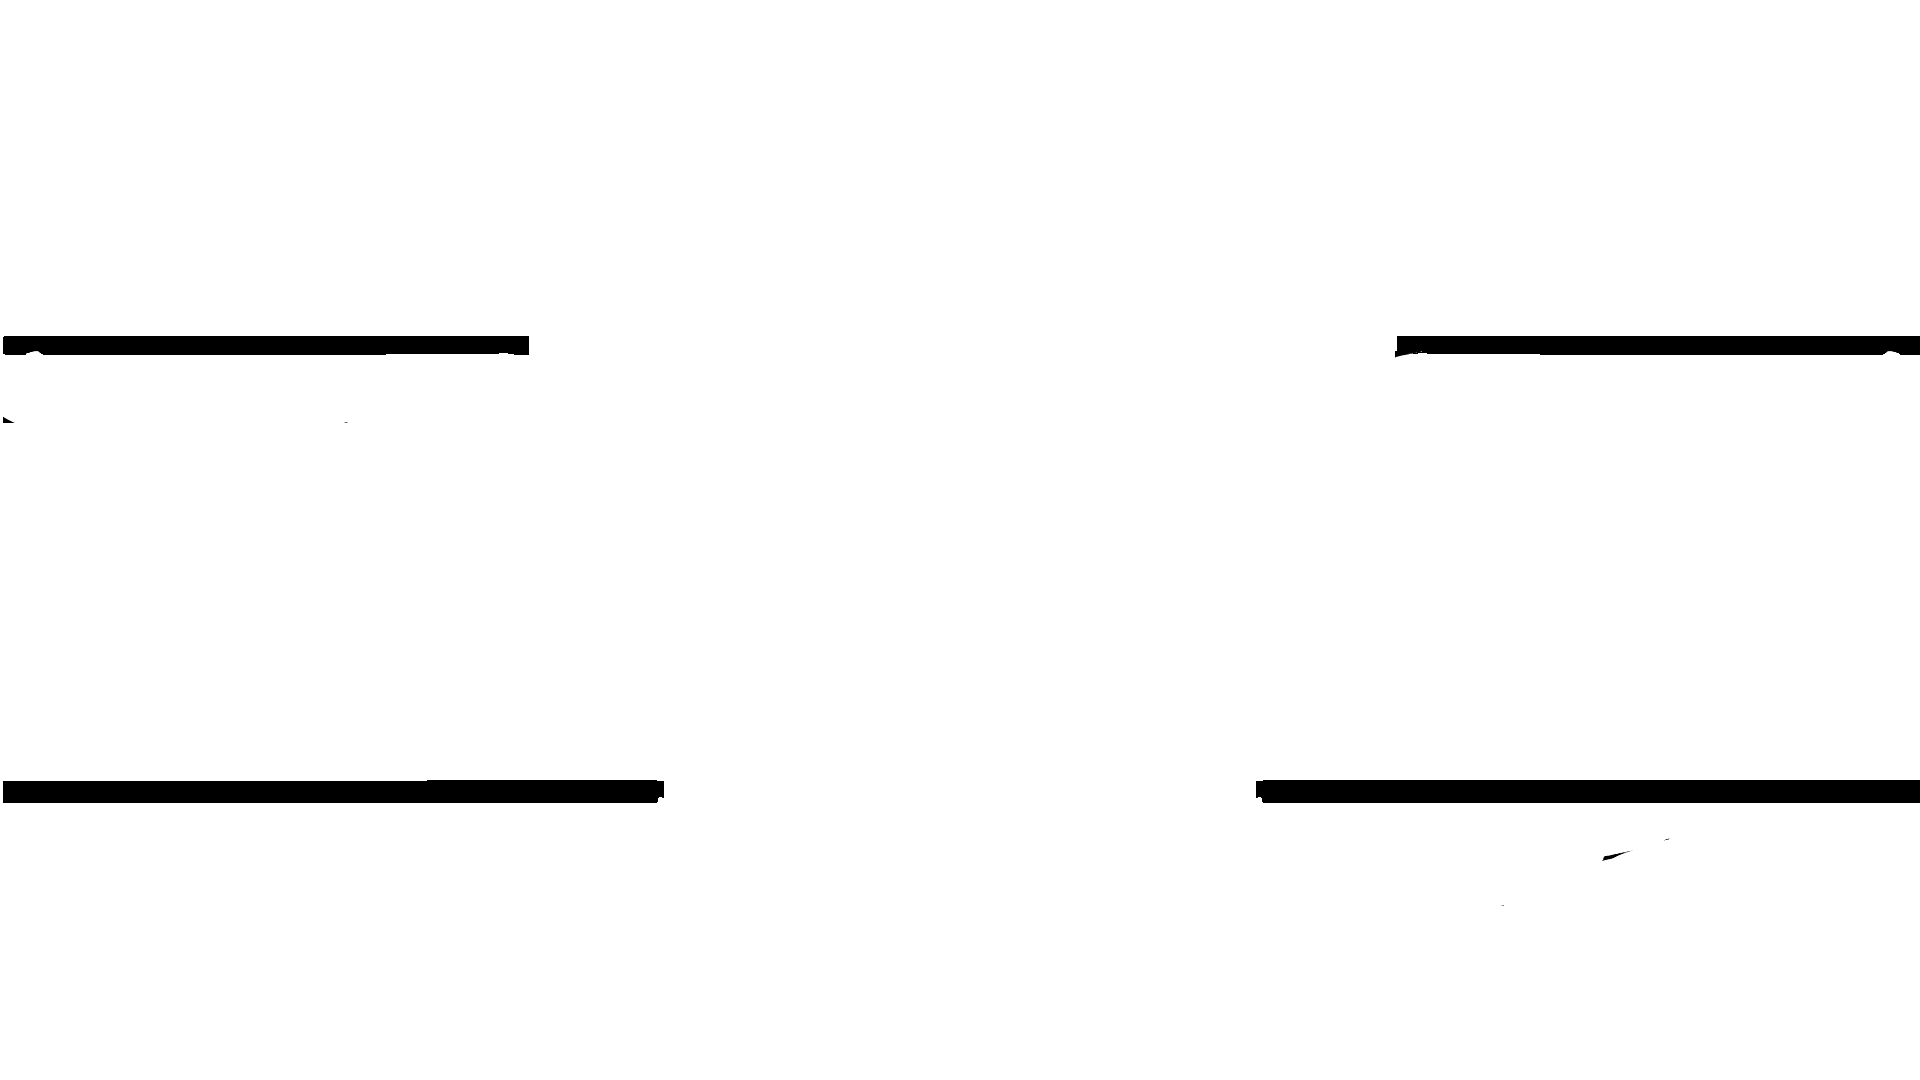
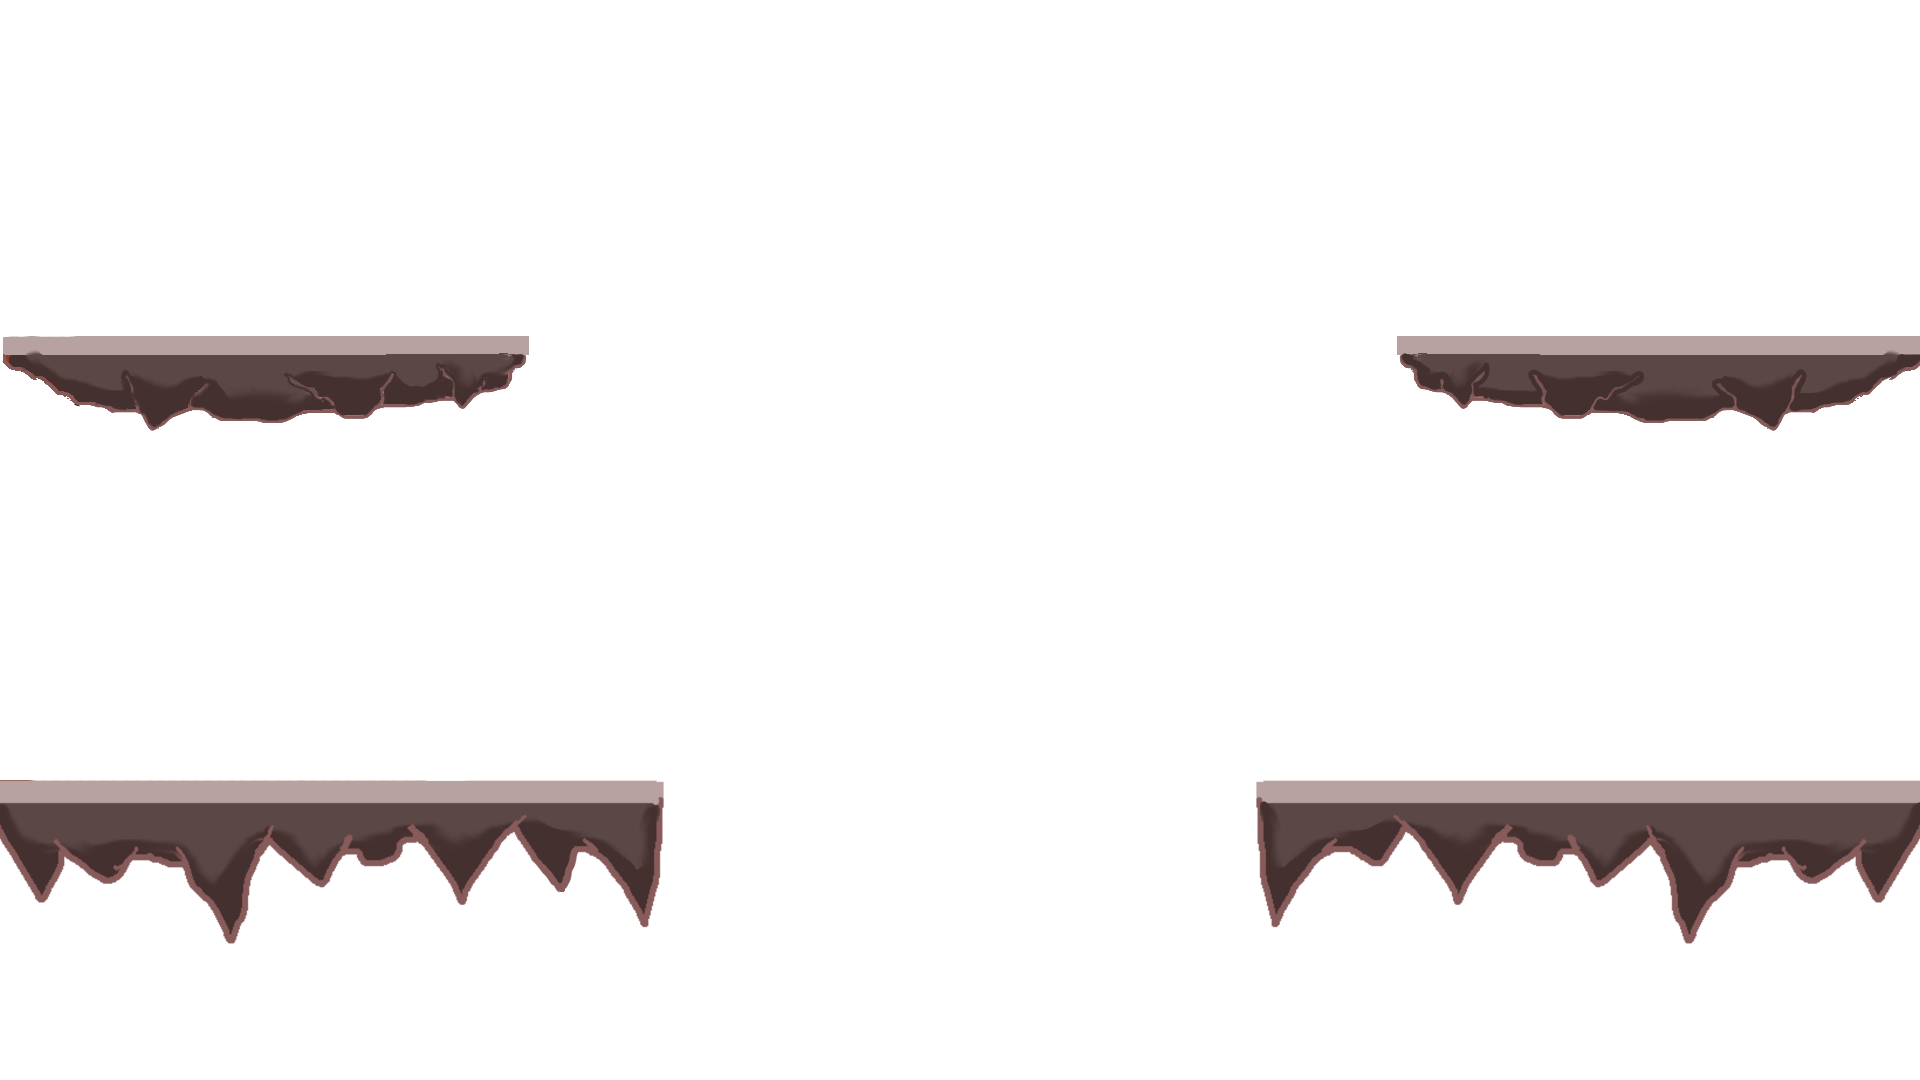
map and start connection

diff --git a/src/fight_land/game/network/receiver/Receiver.java b/src/fight_land/game/network/receiver/Receiver.java
@@ -5,7 +5,9 @@ import java.io.ByteArrayOutputStream;
 import java.io.IOException;
 import java.io.ObjectInputStream;
 import java.io.ObjectOutputStream;
+import java.util.ArrayList;
 
+import fight_land.game.Init;
 import fight_land.game.network.send.Sender;
 import networkAPI.Communication;
 import networkAPI.Packet;
@@ -40,8 +42,27 @@ public class Receiver {
 			case 0:
 				msStack = this.sender.responsePingTCP(msStack, pack, this);
 				break;
-
 			case 1: // get fich at Load
+				@SuppressWarnings("unchecked")
+				ArrayList<Integer> nbAtLoad = (ArrayList<Integer>) readDataByteToObject(pack.getData().get(0));
+				new Thread(() -> {
+					ArrayList<Integer> nbAfter = new ArrayList<Integer>();
+					for (int i = 0; i < nbAtLoad.size(); i++) {
+						Boolean find = false;
+						for (int a = 0; a < nbAfter.size(); a++) {
+							if (nbAfter.get(a).intValue() == nbAtLoad.get(i).intValue()) {
+								find = true;
+							}
+						}
+						if (!find)
+							nbAfter.add(nbAtLoad.get(i));
+
+					}
+					for (int i = 0; i < nbAfter.size(); i++)
+						Init.loader.load(nbAfter.get(i).intValue());
+
+					Init.loader.setLoadFinish(true);
+				}).start();
 				break;
 
 			default:

diff --git a/src/fight_land/connexion/MenuRequestManager.java b/src/fight_land/connexion/MenuRequestManager.java
@@ -156,13 +156,21 @@ public class MenuRequestManager implements Runnable {
 					e.printStackTrace();
 				}
 				try {
-					this.com.writeNextPacket(null, Communication.UDP, new Packet(0));
+					try {
+						this.com.writeNextPacket(null, Communication.UDP, new Packet(0));
+					} catch (Exception e) {
+						System.out.println("ERROR NORMAL");
+					}
 				} catch (Exception e) {
 				}
 			}).start();
 		} else {
 			msStack = System.currentTimeMillis();
-			this.com.writeNextPacket(null, Communication.UDP, pack);
+			try {
+				this.com.writeNextPacket(null, Communication.UDP, pack);
+			} catch (Exception e) {
+				System.out.println("ERROR NORMAL");
+			}
 		}
 		return msStack;
 	}

diff --git a/src/fight_land/game/Init.java b/src/fight_land/game/Init.java
@@ -14,18 +14,16 @@ public class Init {
 	public static GraphicsRender render;
 	public static Game game;
 	public static NetWorkManager netManager;
+	public static LoadGame loader;
 
 	public static void init(Communication com) {
 
 		netManager = new NetWorkManager(com);
 
-		LoadGame loader = new LoadGame();
+		loader = new LoadGame();
 		frame.setContentPane(new GraphicsLoad(loader));
 		frame.revalidate();
 		frame.repaint();
-		loader.load(1);
-		loader.load(10);
-		loader.setLoadFinish(true);
 		
 		while(!loader.getLoadFinish()) {
 			try {

diff --git a/src/fight_land/connexion/Connect.java b/src/fight_land/connexion/Connect.java
@@ -9,7 +9,7 @@ public class Connect {
 
 	public static Communication com;
 
-	public static final String ipName = "92.157.232.250";
+	public static final String ipName = "localhost";
 	public static final int port = 7630;
 
 	public static InetAddress ip;

diff --git a/src/fight_land/game/load/LoadGame.java b/src/fight_land/game/load/LoadGame.java
@@ -24,7 +24,7 @@ public class LoadGame {
 
 	public void load(int textureAtLoad) {
 		switch (textureAtLoad) {
-		case 1: {
+		case 0: {
 			this.loadCosmonaute();
 			break;
 		}
